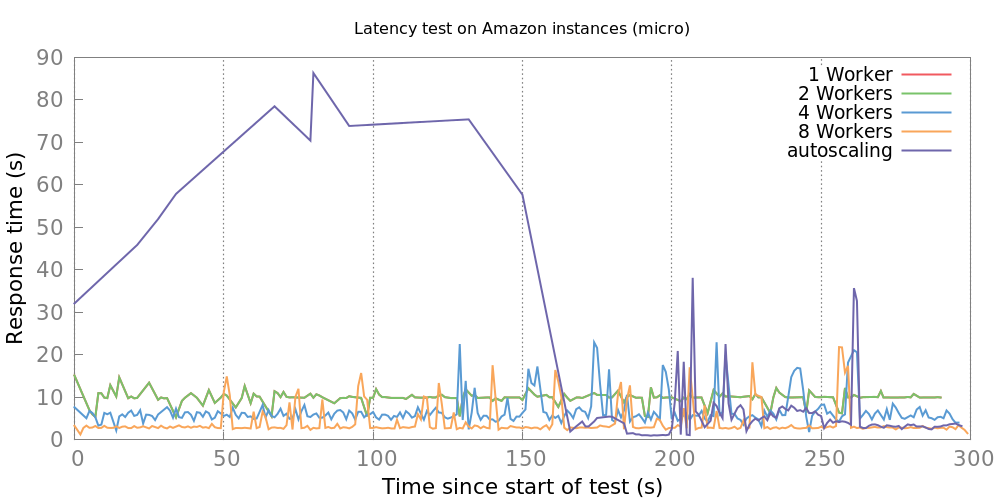
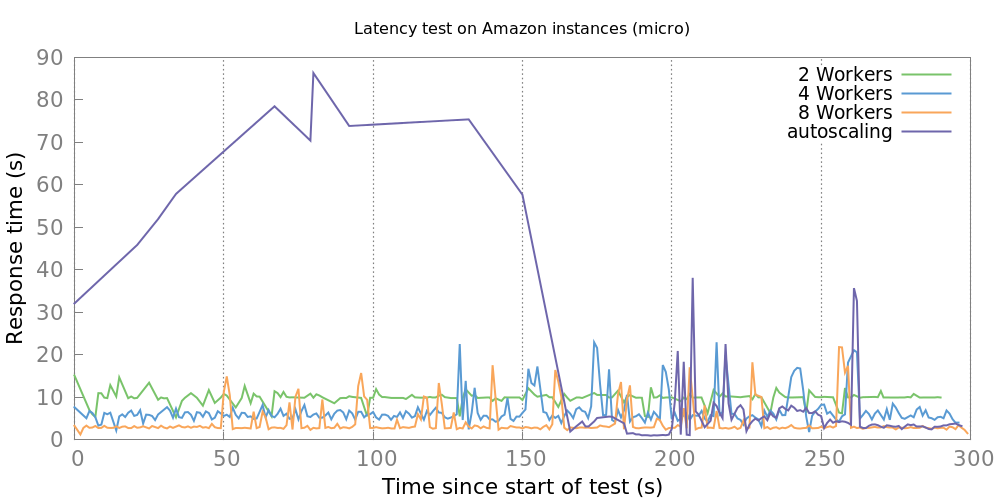
report, part D

diff --git a/doc/design.tex b/doc/design.tex
@@ -28,6 +28,7 @@
 \graphicspath{{./}}
 
 \usepackage{lipsum} % Used for inserting dummy 'Lorem ipsum' text into the template
+\usepackage{float} % set the figures precisely
 
 \usepackage{sectsty} % Allows customizing section commands
 \allsectionsfont{\centering \normalfont\scshape} % Make all sections centered, the default font and small caps
@@ -72,7 +73,7 @@
 
 \maketitle % Print the title
 
-\section{Proposal}
+\section{Part A - Proposal}
 
 \subsection{Application}
 
@@ -88,7 +89,7 @@ The members of the overlay network (the load-balancers) elect a coordinator and 
   node/.style = {circle, text=black, draw=black},
 }
 
-\begin{figure}[h!]
+\begin{figure}[H]
 \begin{center}
 \begin{tikzpicture}[node distance=1cm]
   
@@ -118,7 +119,7 @@ The coordinator in the load balancer network performs the auto-scaling. If the l
 If the workload decreases, the reverse will be done.
 In this part we will compare the Amazon load-balancer with our own implementation of a load-balancer, where we detect heavy-loaded machines if the latency increases or from periodically sending ping messages.
 
-\section{Implementation}
+\section{Part B and C - Implementation}
 
 We have used the twisted library in python and found a open source load balancer named \verb|txLoadBalancer| to do our implementation. It had functions for proxying requests, scheduling the processing nodes and working as a reverse proxy. To this we added the overlay code, code for measuring the request processing time and code to scale up and down the processing nodes.
 
@@ -138,9 +139,10 @@ We use, as noted before, the average request processing time to determine when t
 We noticed a couple of problems during our experiments on the Amazon EC2 cloud. We noticed that a start-up of a node can take up to 60 seconds, something that has impact on the speed of scaling. This problem can be seen in the graphs, where the load balancer sees a high load and initiates a scale up but it takes up to 60 seconds for this to take effect. 
 
 We also had problems with CPU throttling on the micro instances, where you are granted a "free" CPU burst for some minutes and then restricted to a very low amount of CPU. This makes the average request processing time skyrocket even faster and the load balancer sees this as a increased load and scales up the nodes even faster. We therefore do not recommend running this on micro instances, it is better to use small instances where the CPU capacity is guaranteed over time.
+
 \section{Results}
 
-Result description latency (follows...)
+The average response time per request increases linear with the number of concurrent requests. This is due to the fact that the twisted framework runs the requests in parallel. For up to 200 concurrent requests, there is no indication of an overhead while handling that many requests. The figures for a micro and a small instance on the Amazon EC2 Cloud are very similar, the only difference is the response time, which is higher for the small instance. This is due to the fact that the micro instance has a burst mode, for a small amount of time the processing speed is much higher than the small instance. However, once this time is up, the processing speed drops significantly below the value of the small instance. 
 
 \begin{figure*}[h!]
 \includegraphics[width=\columnwidth]{../plot/latency_fixed.png}
@@ -150,7 +152,7 @@ Result description latency (follows...)
 \includegraphics[width=\columnwidth]{../plot/latency_fixed_small.png}
 \end{figure*}
 
-Result description workload (follows...)
+The number of processed request is calculated from the average response time per request. As expected, for one concurrent request the response time and therefore the throughput are almost identical. However, with twice as many worker server machines, the number of processed requests per second almost doubles as well. For example on a small instance, 2 worker server process on average about 2.5 requests per second, where 4 worker server are able to process about 5 requests per second.
 
 \begin{figure*}[h!]
 \includegraphics[width=\columnwidth]{../plot/workload.png}
@@ -160,7 +162,10 @@ Result description workload (follows...)
 \includegraphics[width=\columnwidth]{../plot/workload_small.png}
 \end{figure*}
 
-Result description timeline (follows...)
+The latency test measures the response time per request over a period of 5 minutes with 50 concurrent requests. Whenever a requests finished, a new one was started such that the system had always the same amount of workload.
+Unfortunately, we run out of time and therefore weren't able to perform the test with 1 Worker on an Amazon micro instance.
+
+The lines for a fixed number of workers have a small fluctuation around a average response time. With a longer running time, the fluctuation increases on the micro instance. For the auto-scaling part the response time start at a high level and drops around 150 seconds on both micro and small instances. On the small instance it has then the shortest response time and is very stable, while on the micro instance there is a high fluctuation. Even though the auto-scaling starts more than 8 new servers, there is only one signification drop in the line. So after a long initialization phase the machines start there work closely after each other. For the auto-scaling on small instances, the significant drop descends to a response time of around 10 seconds, and then it decreases in small steps until it is below 5 seconds. So there seem to be more machines starting their work. This is due to the fact that the first machine doubles the processing power, while when the system has for example 8 worker servers and a new one joins the system, the processing power gets only a small improvement.
 
 \begin{figure*}[h!]
 \includegraphics[width=\columnwidth]{../plot/timeline.png}
@@ -170,6 +175,53 @@ Result description timeline (follows...)
 \includegraphics[width=\columnwidth]{../plot/timeline_small.png}
 \end{figure*}
 
+\newpage
+
+\section{Part D - Billing}
+
+\subsection{Scenario}
+
+Estimate the cost for hosting a small business using the public-cloud of Amazon or Microsoft or having it in-house. The goal is to find the cheapest configuration that fullfills all requirements, which are:
+
+\begin{itemize}
+	\item 1 web server - hosting everything (Suse Linux Enterprise 64 bit, 4 CPUs, 8GB RAM)
+	\item 1 TB storage
+	\item 10 GB / week data transfer
+	\item SLES - SUSE Linux Enterprise Server - system type
+\end{itemize}
+
+\subsection{Comparison}
+
+The comparison is made for the US market, therefore all prices are US dollars.
+Amazon provides a Free Tier Discount for the first year (1.68\$ per month) and discount for long term reservations with payment upfront.
+
+\begin{itemize}
+	\item Amazon: 4 CPU, 15 GB RAM, 1680 GB Storage, 10 GB / week (m1.xlarge)
+	\item Windows Azure : 8x1.6GHz CPU, 14 GB RAM, 2040 GB Storage, 44 GB / month (XL Linux)
+	\item IBM (in-house and SmartCloud): 4 CPU, 8 GB RAM, 1084 GB Storage, 10 GB / week (64-bit Silver)
+\end{itemize}
+
+\begin{table}
+	\centering
+	\begin{tabular}{| l | r | r | r |}
+		\hline
+		& 1 Month & 1 Year & 3 Years \\
+		\hline
+		Amazon & 427.92 & 2657.18 & 5309.96 \\
+		\hline
+		Azure & 361.80 & 4341.60 & 13071.60 \\
+		\hline
+		In-house & 5570.00 & 12093.00 & 26325.00 \\
+		\hline
+		SmartCloud & 250.00 & 3000.00 & 9000.00 \\
+		\hline
+	\end{tabular}
+	\caption{Price comparison public-cloud, in-house. All values in \$.}
+	\label{tab:pricetable}
+\end{table}
+
+
+The IBM SmartCloud is the cheapest for a short time of usage. However, it has the advantage to match the requirements accurately. Amazon gets huge discounts for a long reservation, it is the cheapest in the long run. Additionally, the virtual machine provides almost twice as much RAM as requested and more than 1.5 times the amount of storage. Windows Azure is the most expensive cloud solution, but this is partly due to the fact that it offers almost twice as many CPU,RAM and storage. A cheaper virtual machine that fits the requirements except the RAM (only 7 GB) costs below 190\$ per month and would be the cheapest. Of course, this could be done for Amazon as well, reducing the price for a month below 250\$. So while it is arguably which vendor is the cheapest in a short run, Amazon is definitely the best choice for a longer period. The in-house estimate has an capital investment of 4977\$ and a high 593\$ monthly cost. So even after the first investment, the in-house solution hast he highest maintenance costs.
 
 
 
